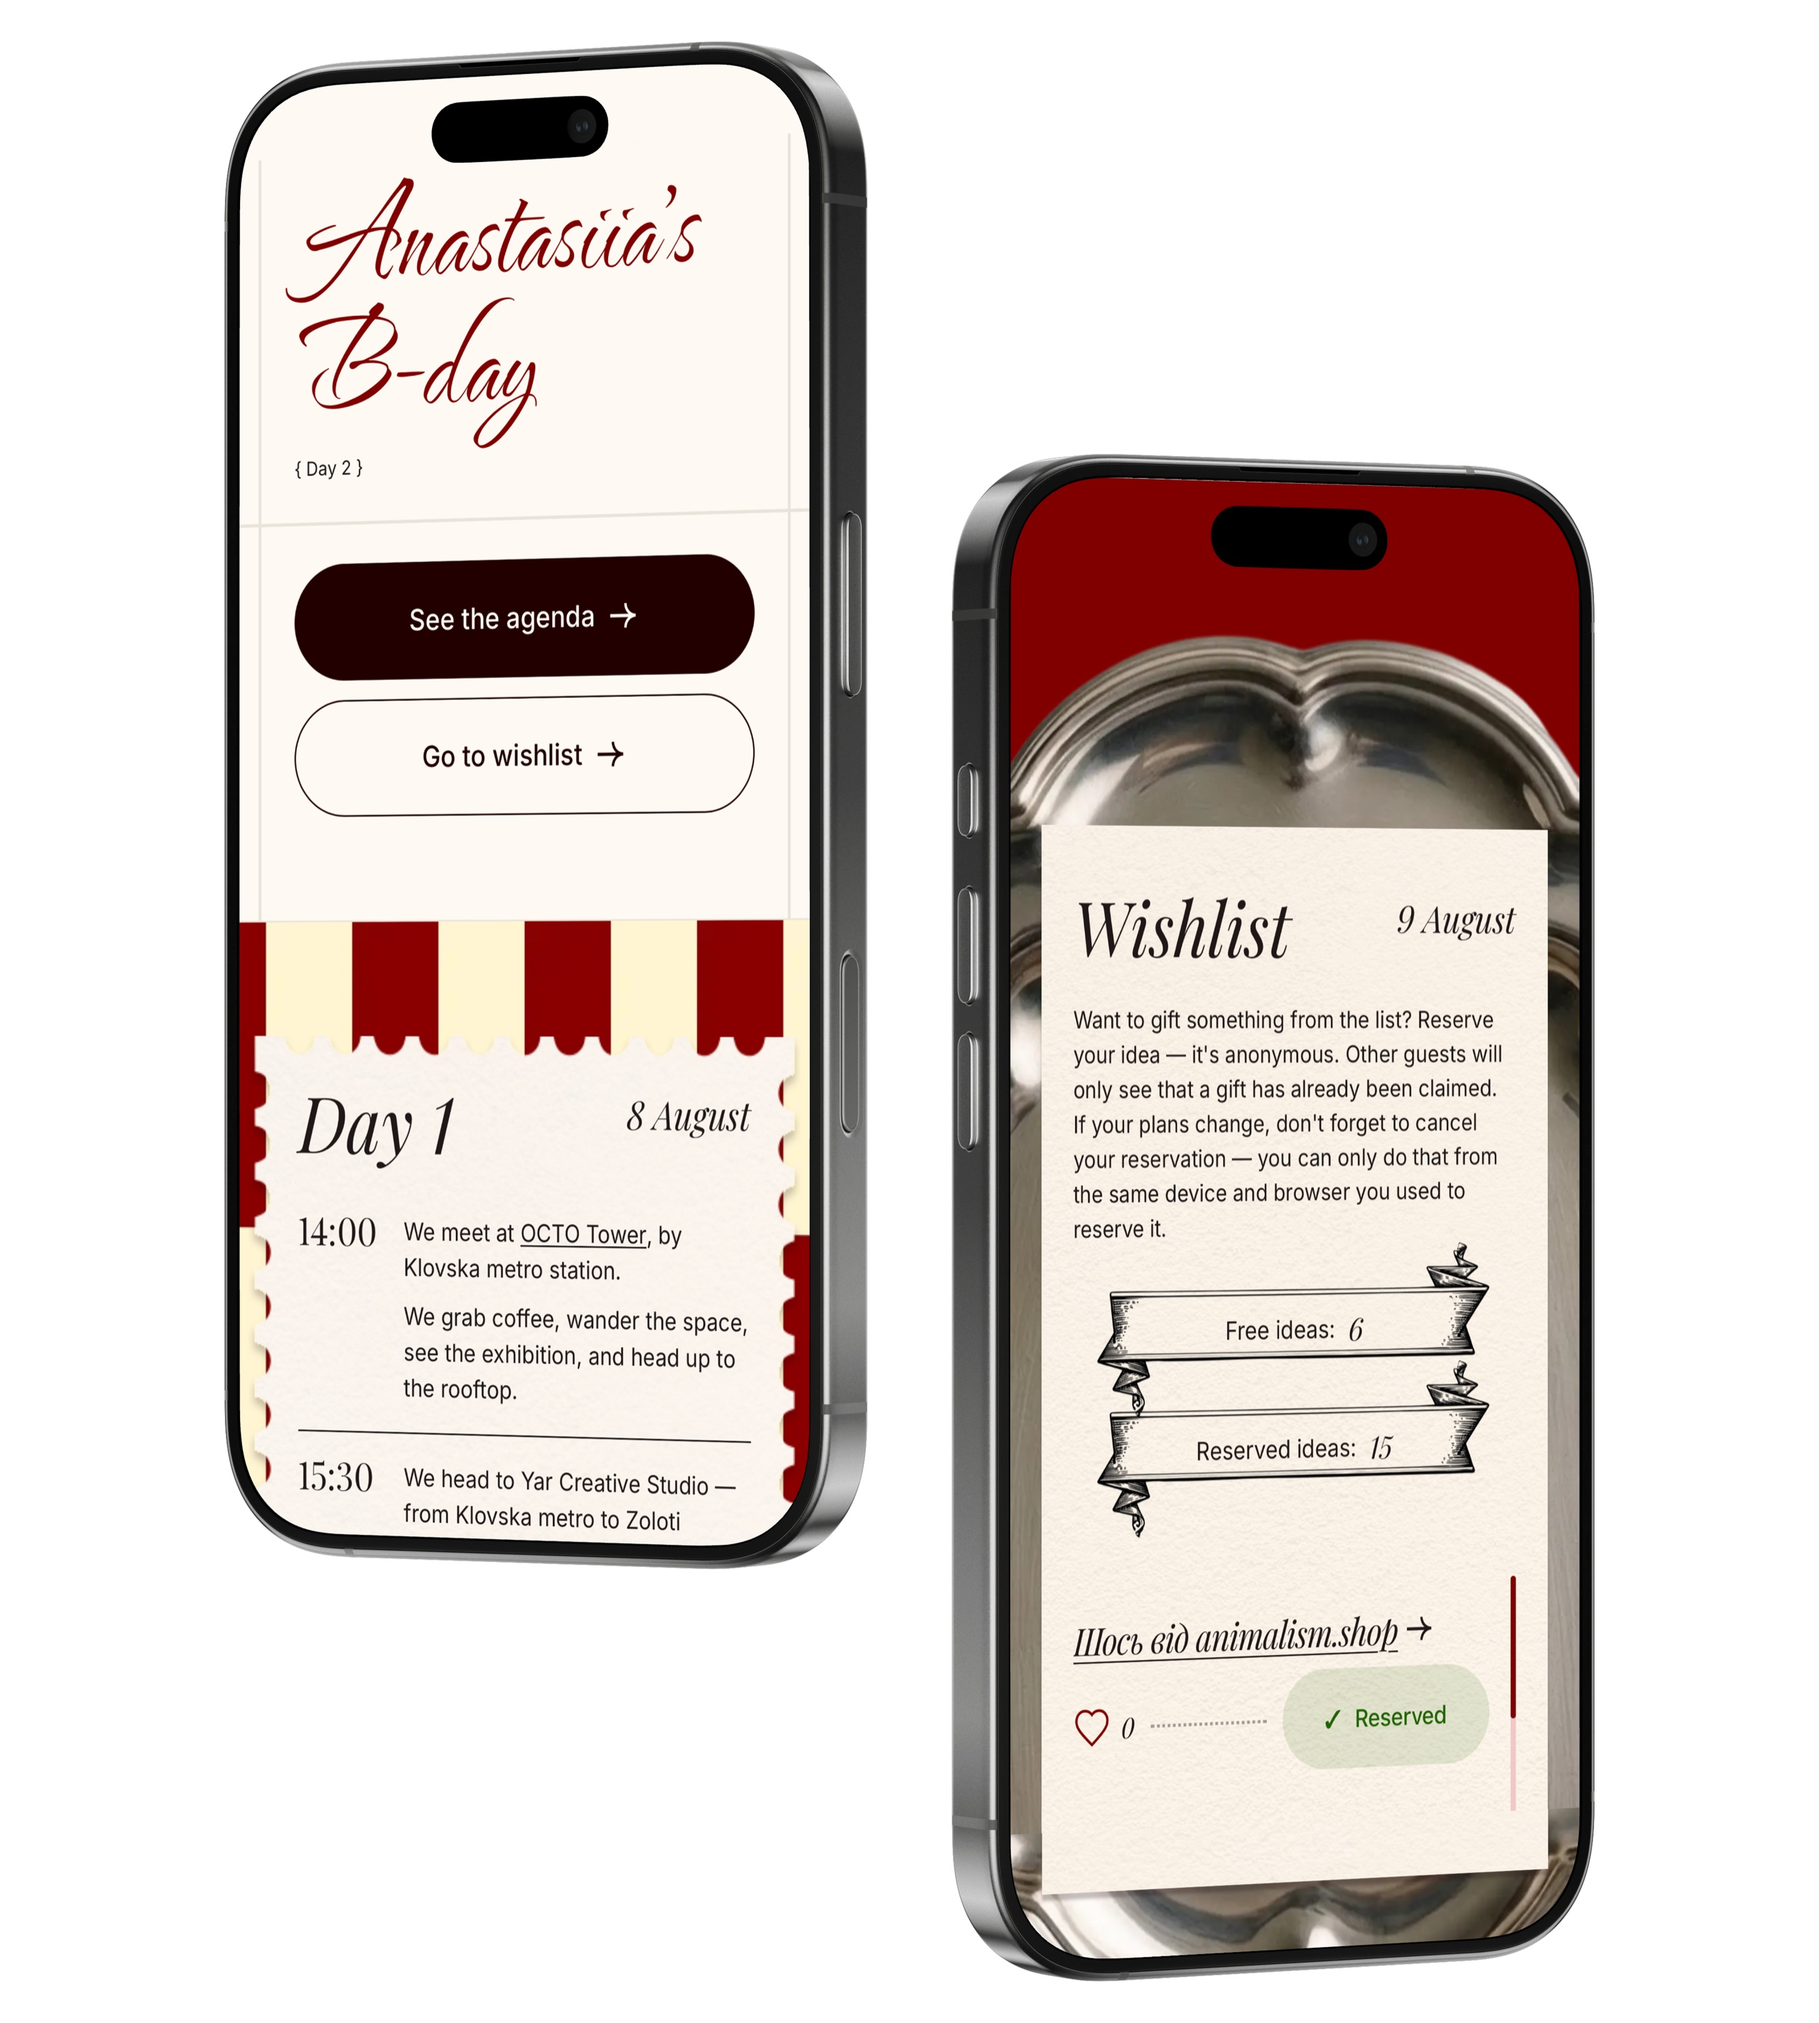
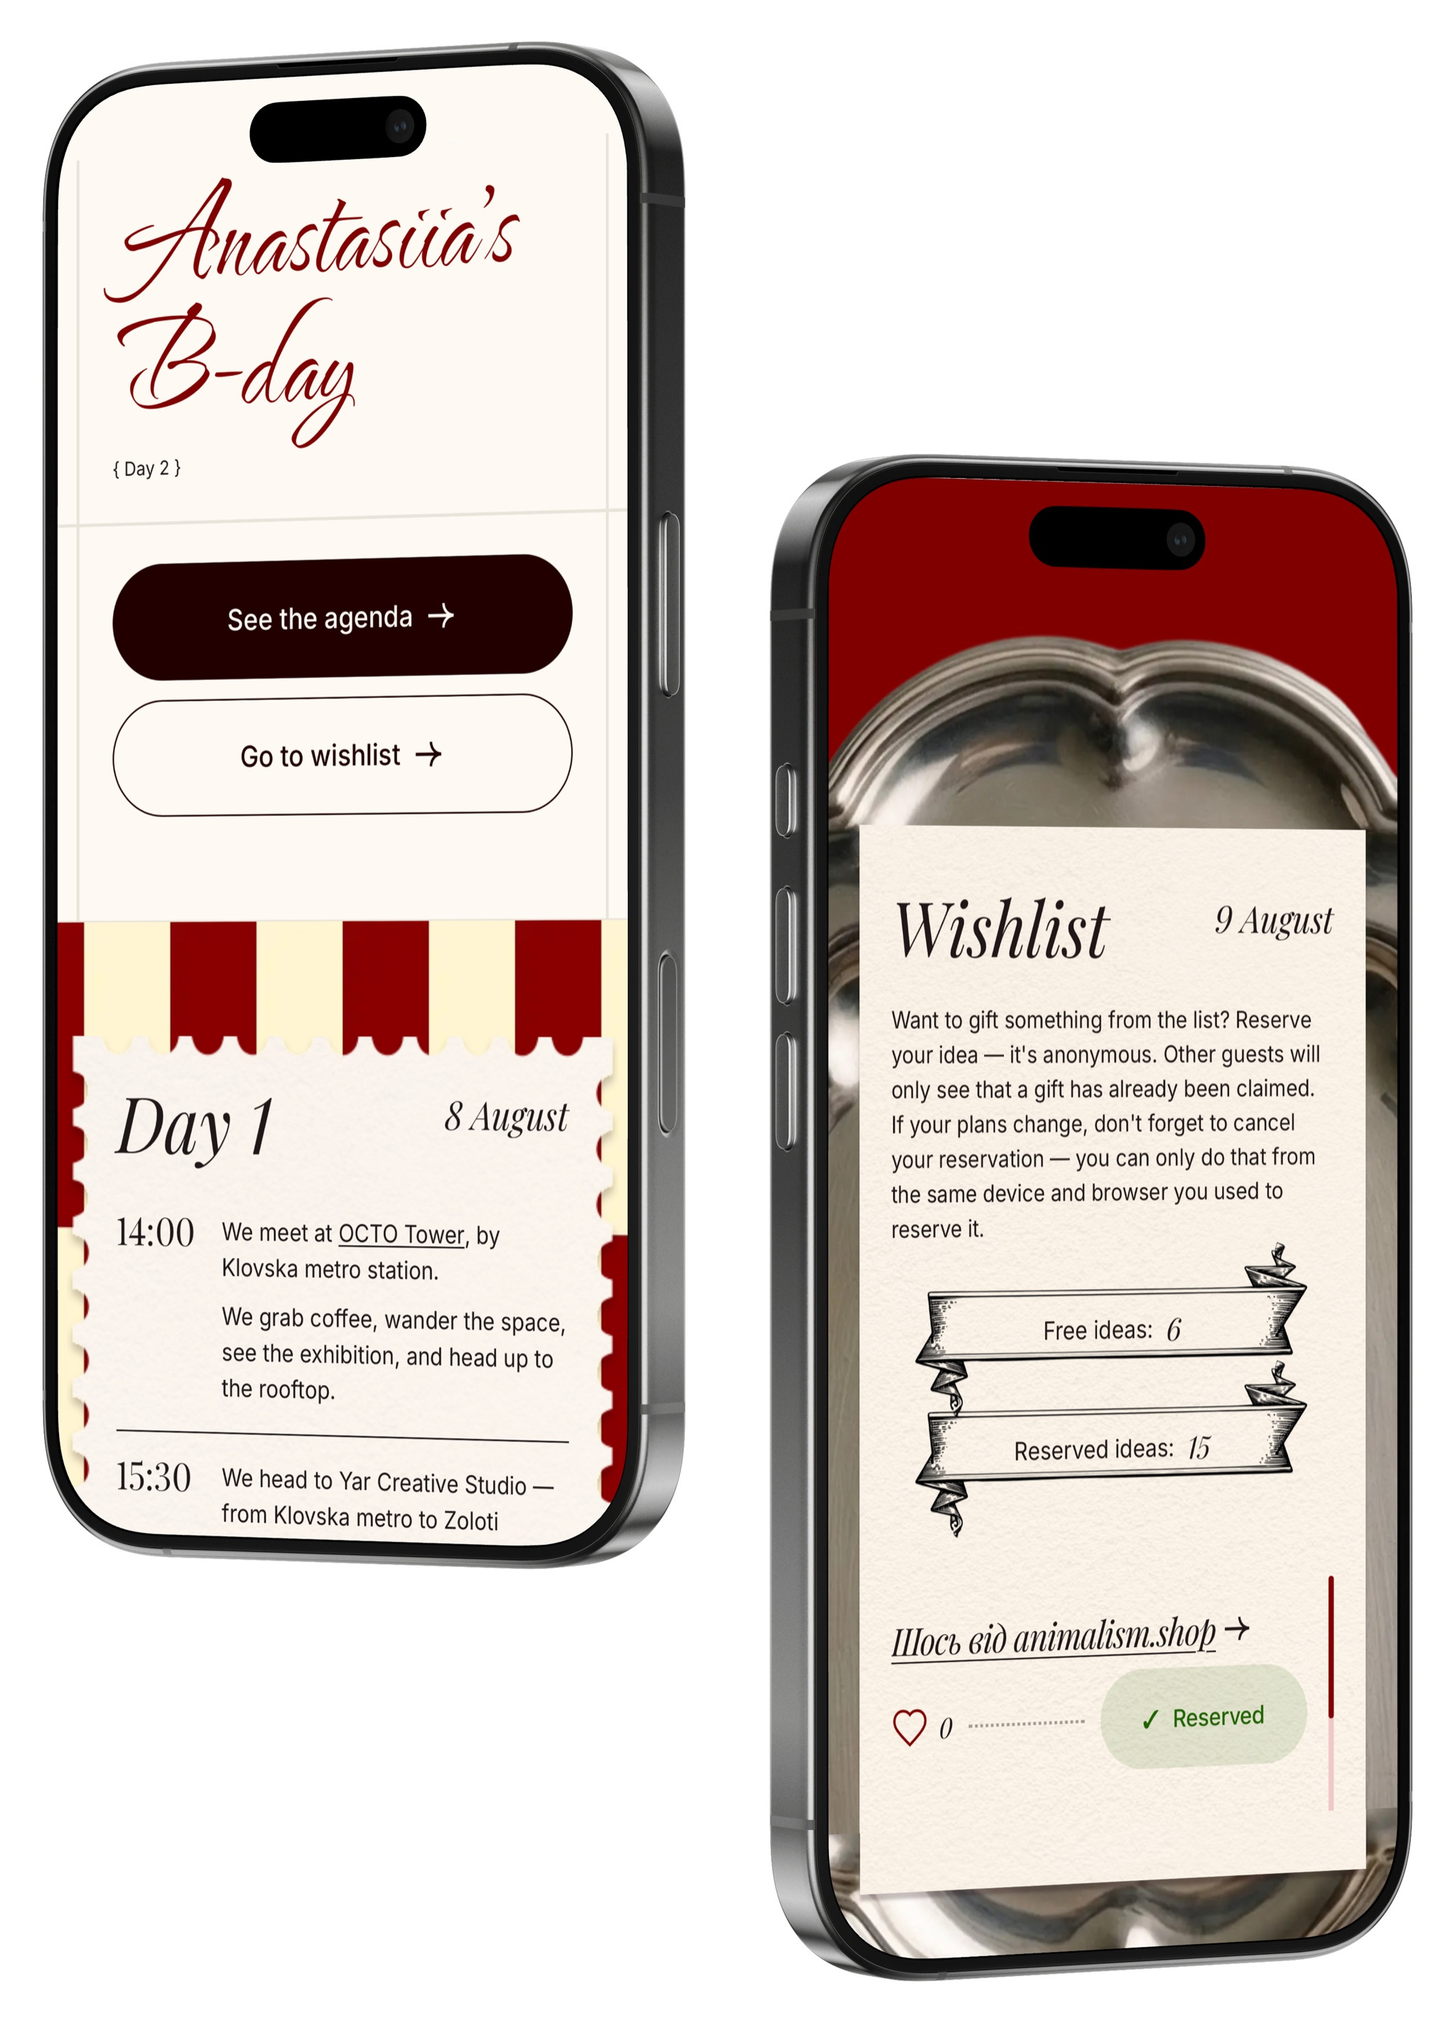
Crop the empty margins off the birthday wishlist figure
Made in a parallel session. 2560x2847 to 2048x2847: the side margins went,
the phones keep their proportions, and the declared width follows the file.

Changed region(s): [[0.0312, 0.0, 0.9688, 0.9891]]

diff --git a/src/app/_content/birthday.tsx b/src/app/_content/birthday.tsx
@@ -116,7 +116,7 @@ export const birthday = {
       "/case-studies/img/birthday/03.jpg",
       "Two phone screens: the Day 1 agenda with its timed schedule, and the Wishlist screen explaining that a reservation is anonymous and can only be cancelled from the same device, with counters showing 6 free and 15 reserved ideas",
       "wide",
-      2560,
+      2048,
       2847,
     ),
 
